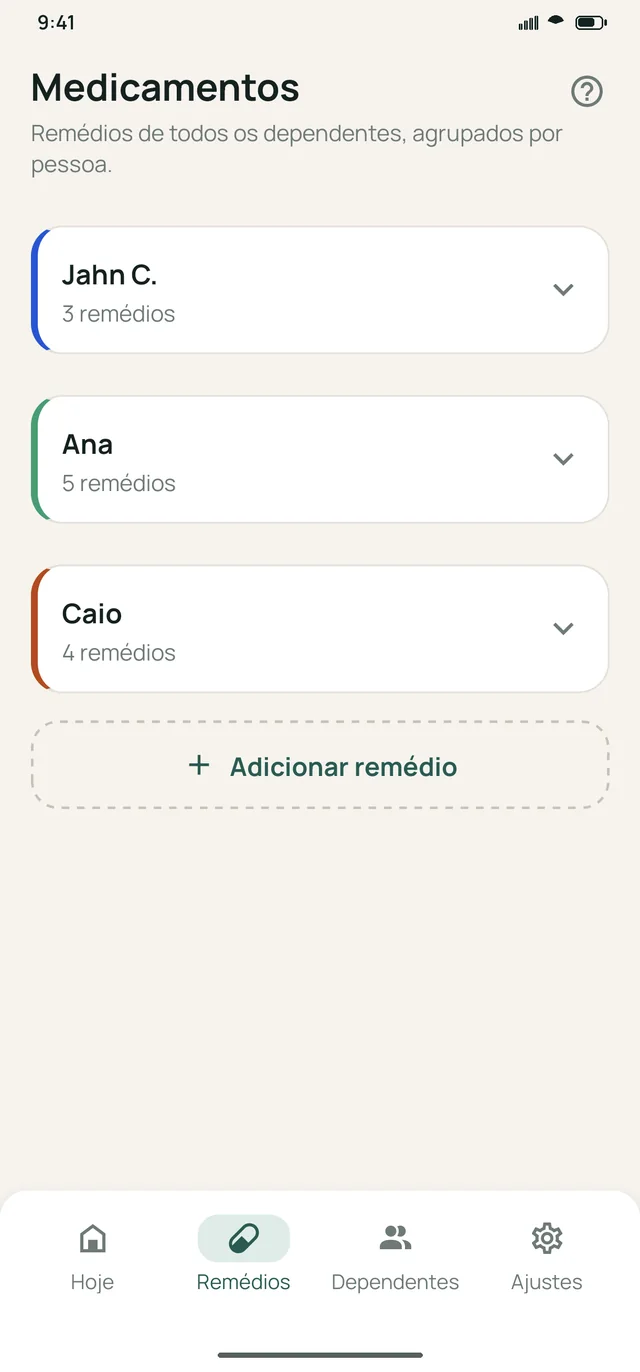
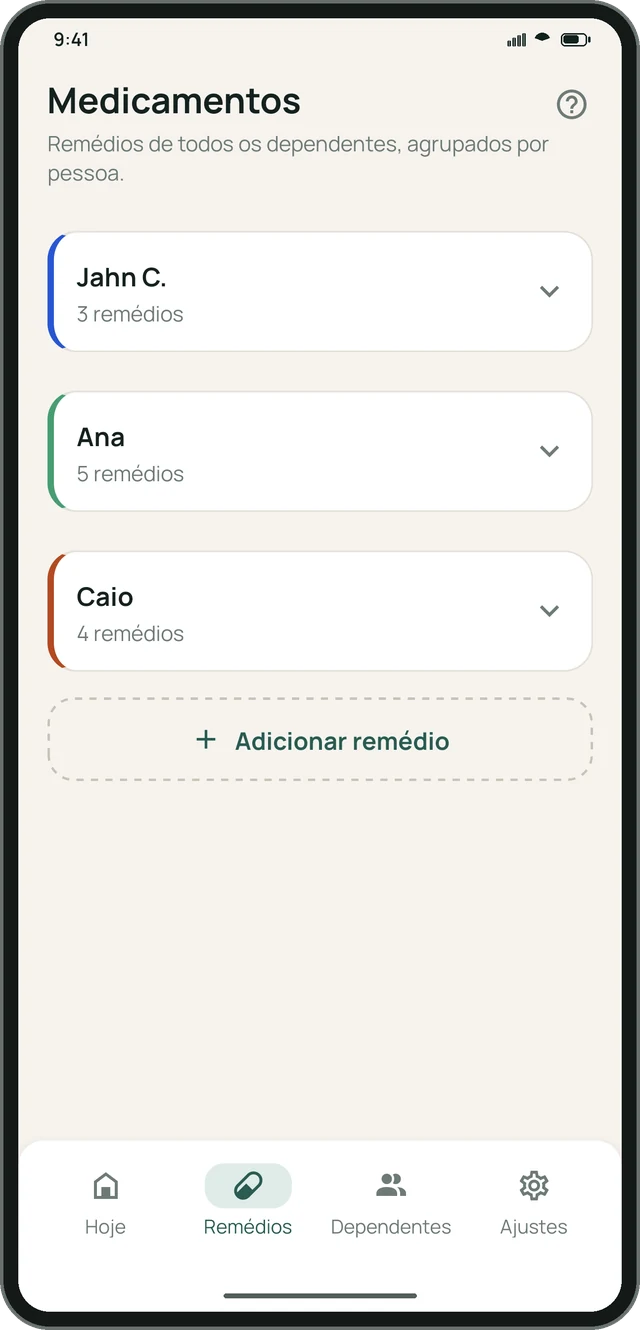
fix(site): device = imagem única (bezel embutido + aro), sem tilt, mobile revisado
- Mockups agora são UMA imagem só: bezel + status bar + tela + gestos embutidos,
  com cantos transparentes e um aro claro fino (o bezel do tema escuro sumia no
  app escuro — o aro dá contorno visível em qualquer tema/fundo).
- Removidas as molduras em CSS e o efeito data-tilt (mexer o tablet no hover);
  sombra agora via drop-shadow que segue o formato do device.
- Impossível distorcer (imagem única + height:auto). Testado 280→768px
  (Fold fechado ao Fold aberto): sem overflow horizontal, contorno visível.

diff --git a/app/globals.css b/app/globals.css
@@ -161,13 +161,11 @@ html[data-invite="1"] #invite-overlay{display:flex}
 .hero__stats .stat b{display:block;font-weight:800;font-size:1.375rem}
 .hero__stats .stat span{font-weight:500;font-size:.78rem;color:var(--mint-l2)}
 
-.hero__phone{
-  width:290px;max-width:100%;border-radius:38px;padding:9px;
-  background:linear-gradient(160deg,#0c2f2a,#08221e);
-  box-shadow:0 40px 90px rgba(0,0,0,.45),0 0 0 1px rgba(255,255,255,.06);
-  transform:rotate(3deg);
-}
-.hero__phone img{width:100%;height:auto;display:block;border-radius:30px}
+/* O device é UMA imagem só (bezel + tela embutidos, cantos transparentes).
+   Sem moldura CSS: só posiciona e aplica a sombra que segue o formato. */
+.hero__phone{width:290px;max-width:100%;transform:rotate(3deg)}
+.hero__phone img{width:100%;height:auto;display:block;
+  filter:drop-shadow(0 34px 60px rgba(0,0,0,.42))}
 
 @media (max-width:767px){
   .hero__inner{flex-direction:column;text-align:center}
@@ -310,12 +308,11 @@ html[data-invite="1"] #invite-overlay{display:flex}
   flex:1 1 320px;display:flex;justify-content:center;
   padding-block:var(--space-40);
 }
-.scene__frame{
-  width:min(280px,70vw);flex:none;border-radius:38px;padding:9px;
-  background:linear-gradient(160deg,#0c2f2a,#08221e);
-  box-shadow:0 30px 70px rgba(18,33,31,.22),0 0 0 1px rgba(255,255,255,.06);
-}
-.scene__frame img{width:100%;height:auto;border-radius:30px;display:block}
+/* O print JÁ é o device completo (bezel embutido na imagem). O .scene__frame
+   só define a largura; a sombra segue o formato via drop-shadow. */
+.scene__frame{width:min(280px,70vw);flex:none}
+.scene__frame img{width:100%;height:auto;display:block;
+  filter:drop-shadow(0 22px 44px rgba(18,33,31,.24))}
 
 /* Cena "Tema adaptável": par de telas (claro + escuro) levemente
    sobrepostas em vez de uma imagem só — é o próprio contraste entre as
@@ -325,12 +322,8 @@ html[data-invite="1"] #invite-overlay{display:flex}
 .scene__frame--pair + .scene__frame--pair{
   margin-left:calc(-1 * clamp(28px,6vw,48px));margin-top:var(--space-24);
 }
-.scene__frame--dark{background:linear-gradient(160deg,#1a3833,#0c2f2a)}
-
-/* Cena com print de TABLET (paisagem): moldura mais larga e cantos
-   menores, mantendo o mesmo bisel teal das demais. */
-.scene__frame--tablet{width:min(560px,84vw);border-radius:22px;padding:8px}
-.scene__frame--tablet img{border-radius:15px}
+/* Cena com print de TABLET (paisagem): só mais larga. */
+.scene__frame--tablet{width:min(560px,84vw)}
 
 /* Mobile (≤767px): empilha em 1 coluna — texto em cima, print embaixo,
    centralizado. flex-direction:column aqui (em .scene__inner E
@@ -369,24 +362,15 @@ html[data-invite="1"] #invite-overlay{display:flex}
 .devices__title{font-weight:800;font-size:var(--fs-h2);letter-spacing:-.01em;color:var(--deep)}
 .devices__desc{margin-top:var(--space-16);font-size:var(--fs-lead);line-height:1.6;opacity:.78}
 .combo{position:relative;width:min(880px,100%);margin:clamp(2.5rem,6vw,4.5rem) auto 0}
-.combo__tablet{
-  width:100%;border-radius:26px;padding:10px;
-  background:linear-gradient(160deg,#0c2f2a,#08221e);
-  box-shadow:0 34px 80px rgba(18,33,31,.24),0 0 0 1px rgba(255,255,255,.06);
-}
-.combo__tablet .device{display:block;width:100%}
-.combo__tablet img{display:block;width:100%;height:auto;border-radius:18px}
+.combo__tablet{width:100%}
+.combo__tablet img{display:block;width:100%;height:auto;
+  filter:drop-shadow(0 30px 60px rgba(18,33,31,.28))}
 /* Celular à frente, no canto inferior-esquerdo, levemente girado. */
-.combo__phone{
-  position:absolute;left:1%;bottom:-7%;width:20%;z-index:2;
-  border-radius:26px;padding:6px;transform:rotate(-5deg);
-  background:linear-gradient(160deg,#0c2f2a,#08221e);
-  box-shadow:0 26px 50px rgba(18,33,31,.34),0 0 0 1px rgba(255,255,255,.06);
-}
-.combo__phone img{display:block;width:100%;height:auto;border-radius:20px}
+.combo__phone{position:absolute;left:1%;bottom:-6%;width:21%;z-index:2;transform:rotate(-5deg)}
+.combo__phone img{display:block;width:100%;height:auto;
+  filter:drop-shadow(0 20px 40px rgba(18,33,31,.36))}
 @media (max-width:767px){
-  .combo__phone{width:27%;left:-1%;bottom:-8%;border-radius:20px}
-  .combo__phone img{border-radius:15px}
+  .combo__phone{width:28%;left:-1%;bottom:-7%}
 }
 
 /* ============================================================

diff --git a/components/Features.js b/components/Features.js
@@ -33,7 +33,7 @@ const SCENES = [
           src="/screenshots/hoje-dark.webp"
           alt="Tela “Hoje” do app Meu Cuidado no tema escuro, com a lista de lembretes de remédios do dia"
           width={320}
-          height={686}
+          height={665}
           loading="lazy"
         />
       </div>
@@ -49,7 +49,7 @@ const SCENES = [
           src="/screenshots/tablet-dependente-light.webp"
           alt="App Meu Cuidado no tablet: lista de dependentes à esquerda e os remédios da pessoa selecionada à direita"
           width={1100}
-          height={674}
+          height={690}
           loading="lazy"
         />
       </div>
@@ -65,7 +65,7 @@ const SCENES = [
           src="/screenshots/remedios-light.webp"
           alt="Tela “Remédios” do app Meu Cuidado, com a lista completa de medicamentos cadastrados"
           width={320}
-          height={686}
+          height={665}
           loading="lazy"
         />
       </div>
@@ -82,7 +82,7 @@ const SCENES = [
             src="/screenshots/scan-light.webp"
             alt="Tela de escanear medicamento do app Meu Cuidado, com a câmera apontada para o rótulo de um remédio"
             width={210}
-            height={450}
+            height={437}
             loading="lazy"
           />
         </div>
@@ -91,7 +91,7 @@ const SCENES = [
             src="/screenshots/scan-form-light.webp"
             alt="Formulário de novo remédio do app Meu Cuidado preenchido automaticamente após escanear o rótulo"
             width={210}
-            height={450}
+            height={437}
             loading="lazy"
           />
         </div>

diff --git a/components/Devices.js b/components/Devices.js
@@ -21,23 +21,21 @@ export default function Devices() {
         </div>
 
         <div className="combo" data-animate="up">
-          <div className="combo__tablet" data-tilt>
-            <div className="device">
-              <Image
-                src="/screenshots/tablet-remedio-dark.webp"
-                alt="App Meu Cuidado no tablet, no tema escuro e em paisagem: lista de remédios à esquerda e o formulário de edição à direita"
-                width={1100}
-                height={674}
-                loading="lazy"
-              />
-            </div>
+          <div className="combo__tablet">
+            <Image
+              src="/screenshots/tablet-remedio-dark.webp"
+              alt="App Meu Cuidado no tablet, no tema escuro e em paisagem: lista de remédios à esquerda e o formulário de edição à direita"
+              width={1100}
+              height={690}
+              loading="lazy"
+            />
           </div>
           <div className="combo__phone">
             <Image
               src="/screenshots/hoje-light.webp"
               alt="App Meu Cuidado no celular, na tela “Hoje” com a próxima dose e a agenda do dia"
               width={272}
-              height={583}
+              height={565}
               loading="lazy"
             />
           </div>

diff --git a/components/Hero.js b/components/Hero.js
@@ -74,7 +74,7 @@ export default function Hero() {
               src="/screenshots/hoje-light.webp"
               alt="Tela “Hoje” do app Meu Cuidado, com a lista de lembretes de remédios do dia"
               width={272}
-              height={583}
+              height={565}
               priority
             />
           </div>
